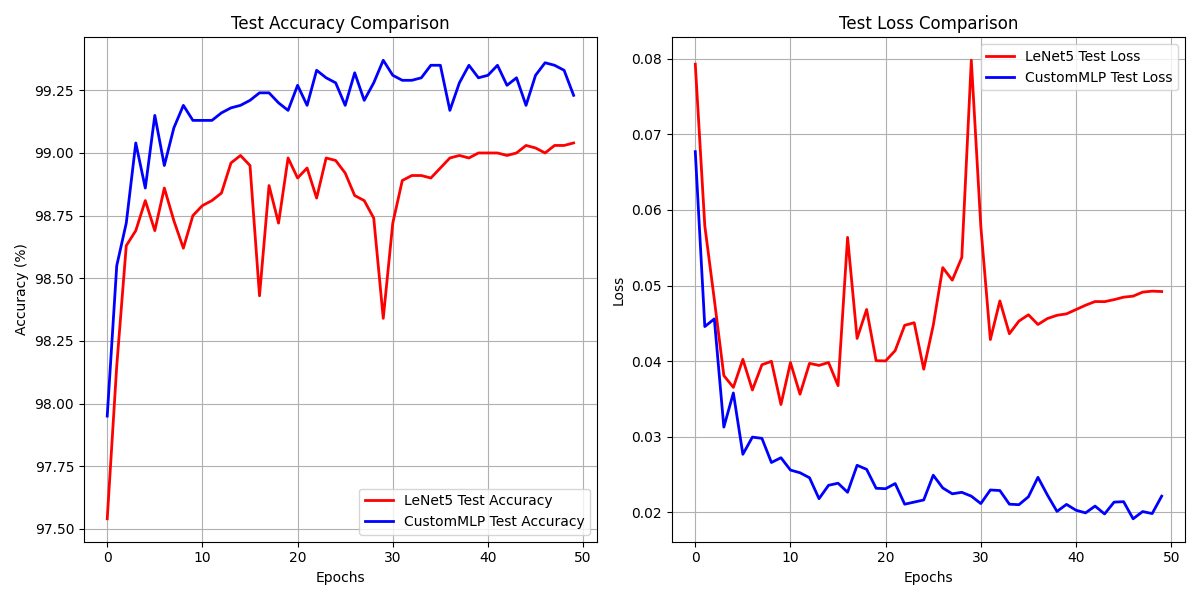
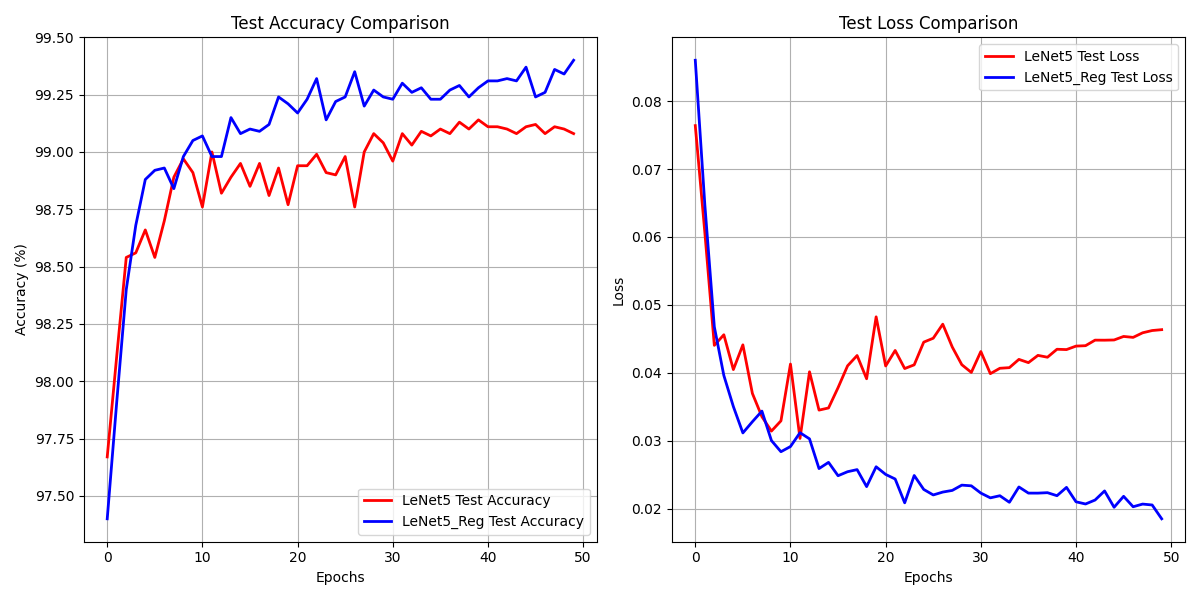
Update

diff --git a/main.py b/main.py
@@ -299,7 +299,8 @@ def main():
     print('='*40)
 
     print(f'LeNet5 - Last epoch test acc: {LeNet5_test_acc_history[-1]}')
-    print(f'Custom model - Last epoch test acc: {LeNet_Reg_test_acc_history[-1]}')
+    print(f'Custom model - Last epoch test acc: {MLP_test_acc_history[-1]}')
+    print(f'LeNet5_Reg model - Last epoch test acc: {LeNet_Reg_test_acc_history[-1]}')
 
 
 if __name__ == '__main__':

diff --git a/model.py b/model.py
@@ -50,6 +50,8 @@ class CustomMLP(nn.Module):
         return outputs
 
 class LeNet5_Reg(nn.Module):
+    """LeNet5 + regularization method
+    """
     def __init__(self, n_classes):
         super(LeNet5_Reg,self).__init__()
         self.feature_extractor = nn.Sequential(

diff --git a/README.md b/README.md
@@ -50,16 +50,17 @@ LeNet5_Reg 모델의 학습에 여러가지 Regularization 기법을 적용
     - F2 : (60 + 1) * 20 = 1220
     - F3 : (20 + 1) * 10 = 210
         - 총 파라미터 수 : 62930
-- LeNet5_Reg에서 Batch Nomarlization가 추가되어, 학습해야하는 파라미터 수가 조금 더 많음
+- LeNet5_Reg에서 Batch Nomarlization가 추가되어, 파라미터 수가 452(226 x 2)개 더 많음
 
 ## Performance
 | Model | Accuracy  |
 | ---------------: | -----: |
 | LeNet5    | 99.03% |
-| CustomMLP  | % |
-| LeNet5_Reg    | 99.23% |
+| CustomMLP  | 92.19% |
+| **LeNet5_Reg**    | **99.40%** |
 
 - 직접 구현한 LeNet5은 알려져있는 예측 성능 약 99%와 유사함을 확인 가능
+- Accuracy : CustomMLP < LeNet5 < LeNet5_Reg
 
 ## Accuracy & Loss plot
 - LeNet5 train & test acc/loss
